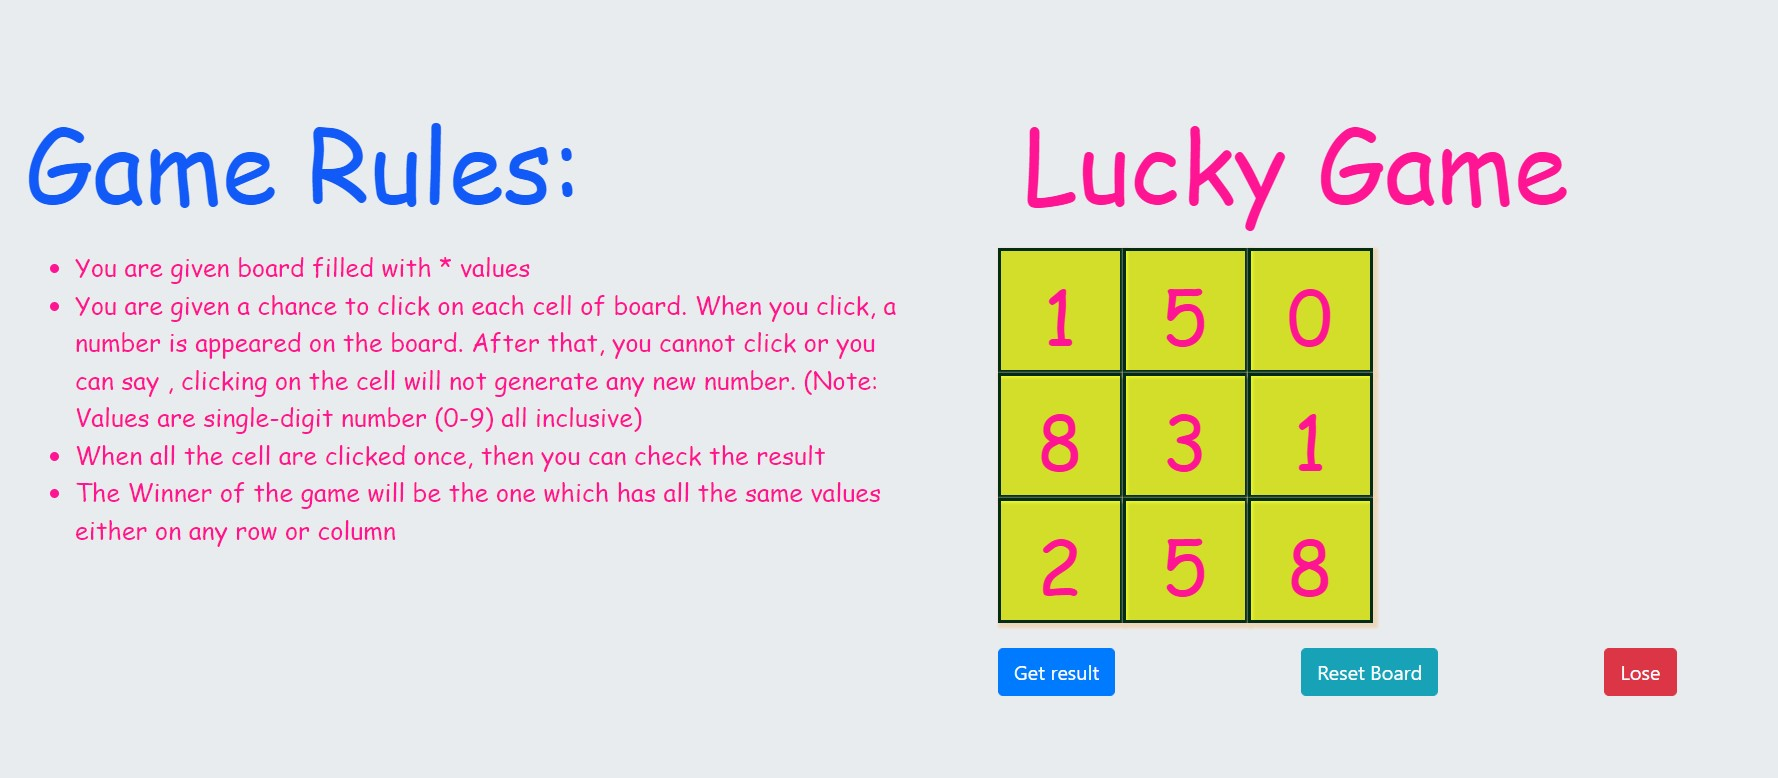
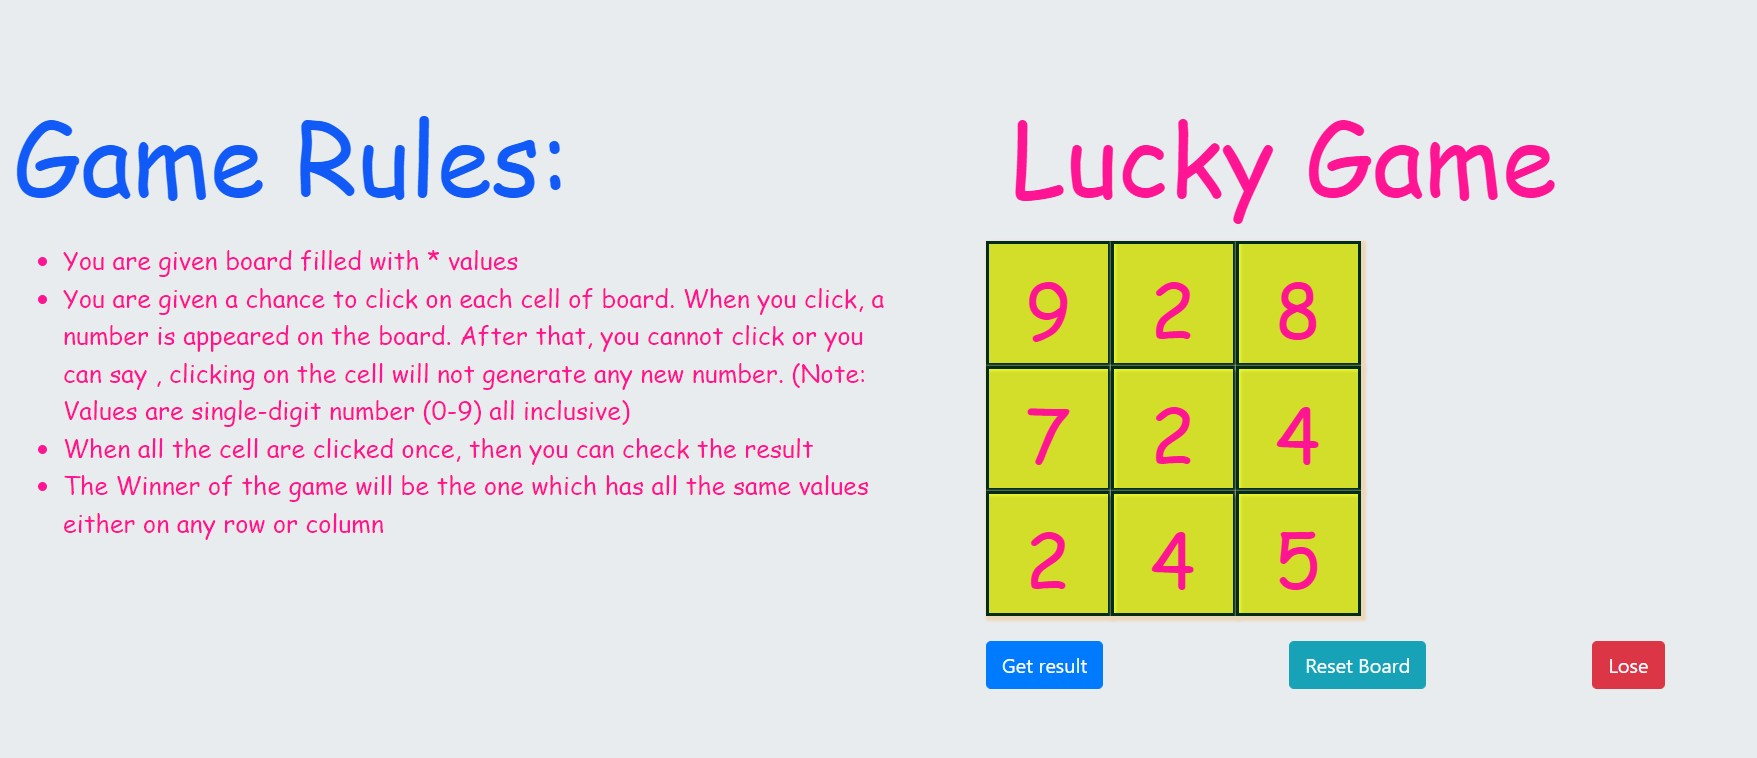
Lucky Game img added and font changed

diff --git a/src/app/app.component.css b/src/app/app.component.css
@@ -1,8 +1,9 @@
 .rules
 { 
-    font-size: 20px;
+    font-size: 22px;
+    font-weight: bold;
     color:deeppink;
-    font-family: monospace, Arial, Helvetica, sans-serif;
+    font-family: Garamond, sans-serif;
     margin-top: 20px;
     margin-bottom: 20px;
     margin-left: 20px;
